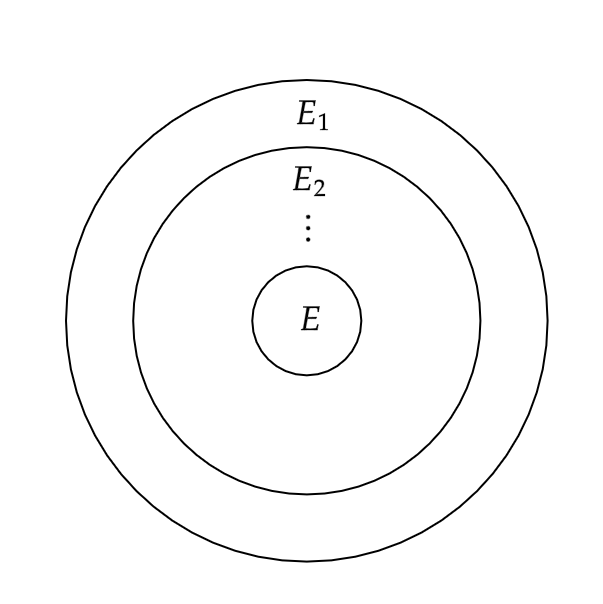
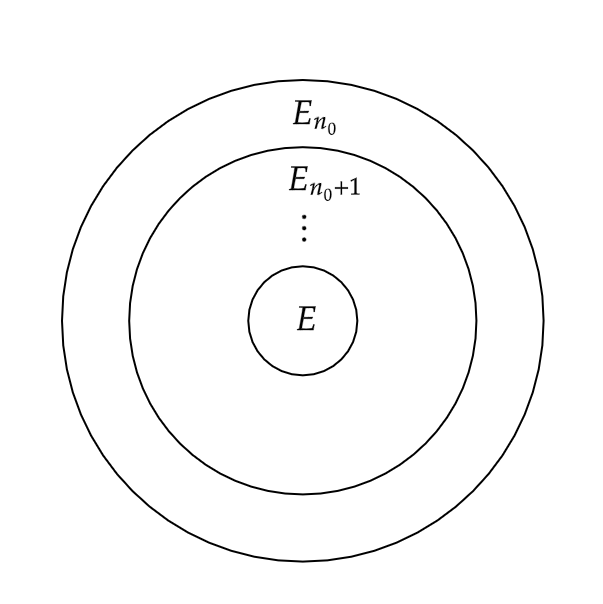
add image

diff --git a/_posts/2022-01-25-MT-lesson3.md b/_posts/2022-01-25-MT-lesson3.md
@@ -68,4 +68,6 @@ Suppose $\mathcal{C}\subseteq \mathcal{P}(\Omega)$, $\emptyset\in \mathcal{C}$, 
 
    (b) Now we prove $\mu$ is continuous from above. Suppose $E_n\downarrow E$. 
 
+   <img src="https://github.com/milanmarks/milanmarks.github.io/raw/master/images/MT-lesson3-fig2.png" alt="continuous from above" style="zoom:33%;" />
+
    
